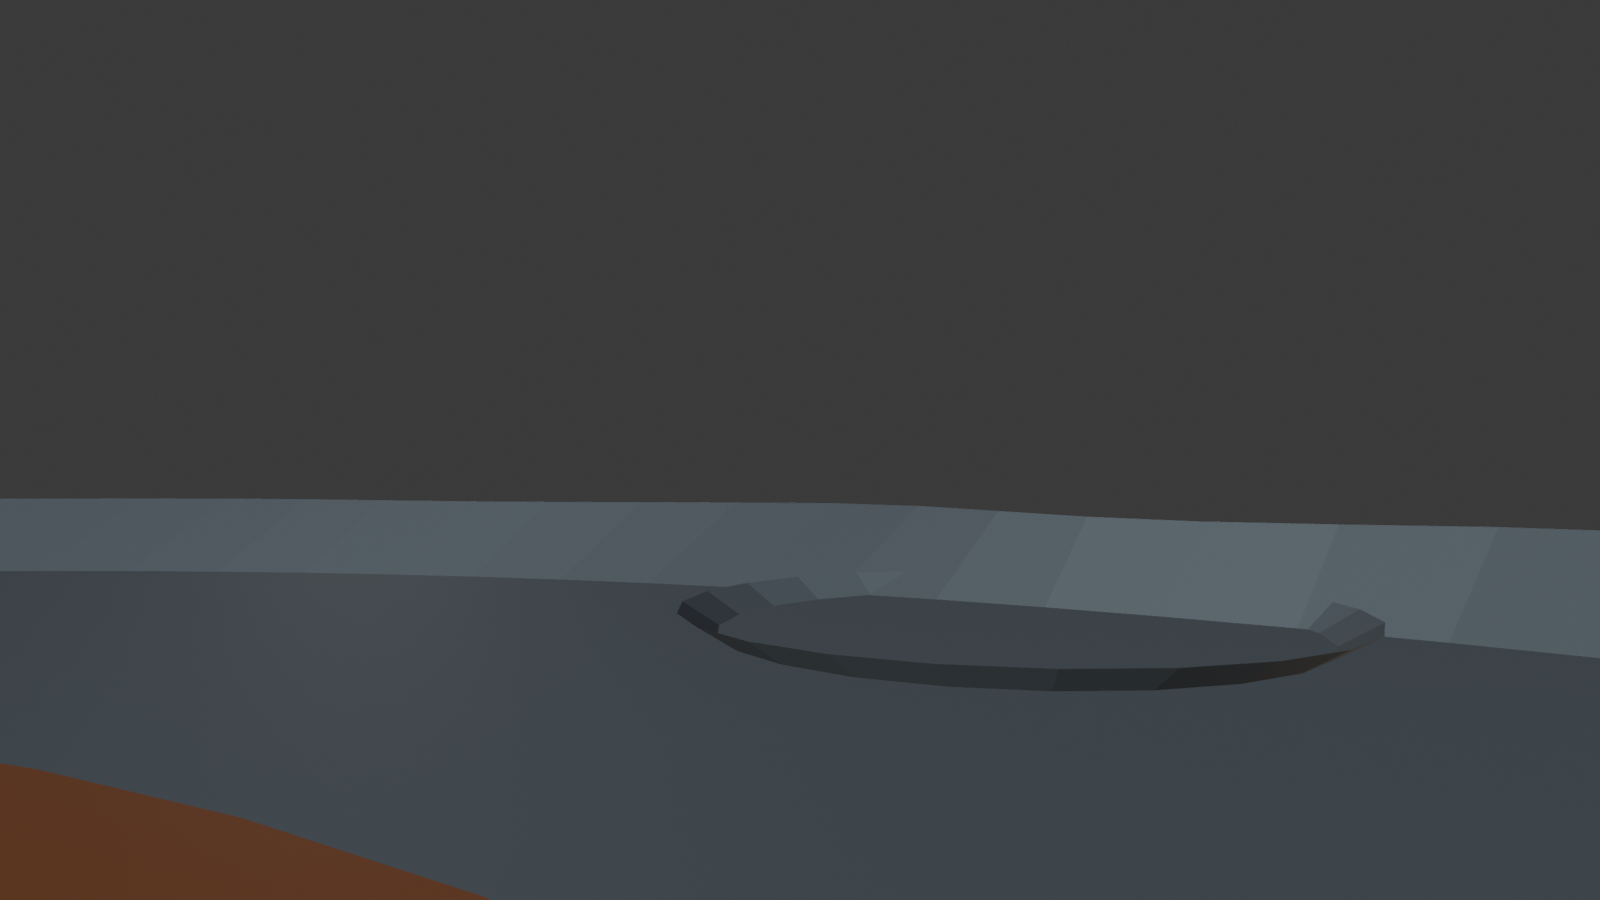
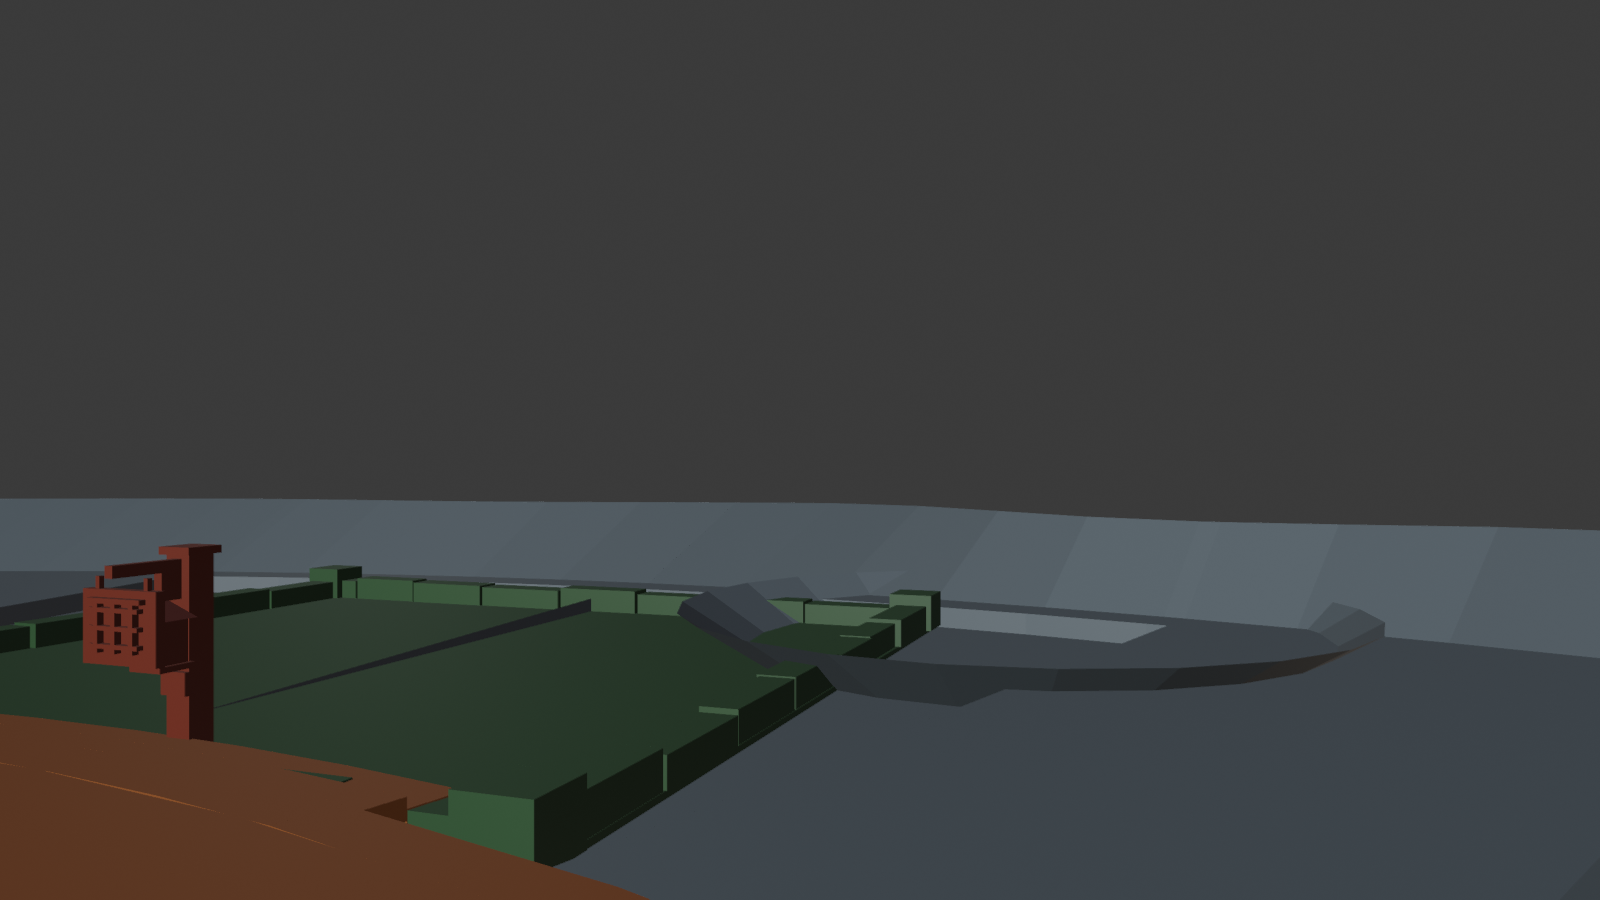
Expose the plot pads: recessed plot terraces, and move the market cross off plot 4
Phase 5 surfaced two defects inherited from earlier phases, both invisible
until the plots had real geometry standing on them.

The pads were buried. Phase 2's terrain was solid at GROUND_Z from the centre
out to MID_RADIUS, so the plot ring at r=135..208 sat entirely underneath it:
a downward ray at any plot centre hit terrain at Z=0, not the pad at -1.5, and
only ~0.5 studs of Phase 5's 2-stud kerb cleared the ground. terrain_quadrant
is now a polar grid over an explicit angle-sample list rather than a segment
count, which lets each plot's pocket boundary land on an exact grid line and
keeps the recesses quad-only and manifold. Seven pockets, r 138..210 and
+/-15.5 deg, sized to contain the whole 70x70 pad; floor 0.4 below PLOT_Z so
the pad reads as a raised slab instead of z-fighting a coplanar floor. Three
pockets straddle a quadrant boundary and are passed to both quadrants clipped,
deliberately wall-less at the seam so the terrace reads as one recess.

The end walls are built as one boundary loop following the actual top profile
and then triangulated. Emitting a quad per radial cell instead left 6
non-manifold edges per seam-cut pocket, because the un-recessed cell's
full-height vertical edge overlapped the recessed cell's floor-height one.

The market cross stood in plot 4. Phase 4 placed it at r=145 on the 180 axis
as "just outside the plaza ring", but PLAZA_OUTER_R is by construction the
plot ring's near pad edge, so the plinth landed on the pad and across the
[…]

Changed region(s): [[0.0, 0.5911, 0.7188, 1.0]]

diff --git a/src/lib/mesh.py b/src/lib/mesh.py
@@ -142,52 +142,128 @@ def wedge_solid(name, radius, angle_start_deg, angle_end_deg, thickness, segment
     return bm_to_object(name, bm, collection=collection)
 
 
-def terrain_quadrant(name, angle_start_deg, angle_end_deg, segments, mid_radius, outer_radius_fn, outer_z_fn, thickness, base_z=0.0, collection=None):
-    """One quadrant of undulating terrain: a flat disc from the centre out
-    to `mid_radius`, then a variable-radius / variable-height band from
-    `mid_radius` out to `outer_radius_fn(angle)` at height `base_z +
-    outer_z_fn(angle)`. Fully solid/watertight (top, bottom, rim wall, two
-    radial end walls), built directly with bmesh -- this is how the island's
-    coastline gets per-angle noise/terracing without a boolean.
+def terrain_quadrant(name, angle_samples_deg, ring_radii, outer_radius_fn, outer_z_fn, thickness, pockets=(), base_z=0.0, collection=None):
+    """One quadrant of island terrain as a single watertight solid: a polar
+    grid over `angle_samples_deg` x `ring_radii` at `base_z`, then a final
+    variable band from ring_radii[-1] out to `outer_radius_fn(angle)` at
+    height `base_z + outer_z_fn(angle)`. Built directly with bmesh -- this
+    is how the coastline gets per-angle noise/terracing, and the plot ring
+    its recessed terraces, without a boolean.
 
+    `angle_samples_deg` is an explicit ascending list rather than a segment
+    count so that pocket boundaries can be placed on exact grid lines --
+    that is what keeps the recesses quad-only and manifold.
+    `ring_radii` is ascending and must start at 0 (the centre fan).
     `outer_radius_fn`/`outer_z_fn` take an angle in degrees and must return
-    the exact same value for a shared boundary angle between two adjacent
-    quadrant calls, or the quadrants won't line up seamlessly.
+    the same value for a boundary angle shared by two adjacent quadrant
+    calls, or the quadrants won't line up seamlessly.
+
+    `pockets` are recessed plot terraces, each `(a_min, a_max, r_min, r_max,
+    floor_z)` in degrees/studs. Bounds MUST fall exactly on angle samples and
+    ring radii; a pocket straddling a quadrant boundary is passed to both
+    quadrants clipped to each one's angular range, and deliberately gets no
+    wall at that seam (the quadrant's own end wall closes it there, so the
+    recess reads as continuous across the two meshes instead of being
+    bisected by a visible interior wall).
     """
+    eps = 1e-6
     bm = bmesh.new()
-    mid_top, mid_bot, outer_top, outer_bot = [], [], [], []
-    for i in range(segments + 1):
-        t_deg = angle_start_deg + (angle_end_deg - angle_start_deg) * i / segments
+    bottom_z = base_z - thickness
+    n_a, n_r = len(angle_samples_deg), len(ring_radii)
+
+    def polar(r, t_deg, z):
         t = math.radians(t_deg)
-        cos_t, sin_t = math.cos(t), math.sin(t)
+        return (r * math.cos(t), r * math.sin(t), z)
 
-        mx, my = mid_radius * cos_t, mid_radius * sin_t
-        mid_top.append(bm.verts.new((mx, my, base_z)))
-        mid_bot.append(bm.verts.new((mx, my, base_z - thickness)))
+    def cell_floor_z(j, k):
+        """Floor Z if grid cell (angles j..j+1, rings k..k+1) is inside a
+        pocket, else None."""
+        a0, a1 = angle_samples_deg[j], angle_samples_deg[j + 1]
+        r0, r1 = ring_radii[k], ring_radii[k + 1]
+        for pa0, pa1, pr0, pr1, floor_z in pockets:
+            if a0 >= pa0 - eps and a1 <= pa1 + eps and r0 >= pr0 - eps and r1 <= pr1 + eps:
+                return floor_z
+        return None
 
+    centre_top = bm.verts.new((0.0, 0.0, base_z))
+    centre_bot = bm.verts.new((0.0, 0.0, bottom_z))
+    top = [[None] * n_r for _ in range(n_a)]
+    bot = [[None] * n_r for _ in range(n_a)]
+    outer_top, outer_bot = [], []
+    for j, t_deg in enumerate(angle_samples_deg):
+        for k in range(1, n_r):
+            top[j][k] = bm.verts.new(polar(ring_radii[k], t_deg, base_z))
+            bot[j][k] = bm.verts.new(polar(ring_radii[k], t_deg, bottom_z))
         r_out = outer_radius_fn(t_deg)
-        z_out = base_z + outer_z_fn(t_deg)
-        ox, oy = r_out * cos_t, r_out * sin_t
-        outer_top.append(bm.verts.new((ox, oy, z_out)))
-        outer_bot.append(bm.verts.new((ox, oy, base_z - thickness)))
+        outer_top.append(bm.verts.new(polar(r_out, t_deg, base_z + outer_z_fn(t_deg))))
+        outer_bot.append(bm.verts.new(polar(r_out, t_deg, bottom_z)))
 
-    center_top = bm.verts.new((0.0, 0.0, base_z))
-    center_bot = bm.verts.new((0.0, 0.0, base_z - thickness))
+    pocket_cells = {}
+    for j in range(n_a - 1):
+        for k in range(1, n_r - 1):
+            floor_z = cell_floor_z(j, k)
+            if floor_z is not None:
+                pocket_cells[(j, k)] = floor_z
+    floor_v = {}
+    for (j, k), floor_z in pocket_cells.items():
+        for jj in (j, j + 1):
+            for kk in (k, k + 1):
+                if (jj, kk) not in floor_v:
+                    floor_v[(jj, kk)] = bm.verts.new(polar(ring_radii[kk], angle_samples_deg[jj], floor_z))
     bm.verts.ensure_lookup_table()
 
-    for i in range(segments):
-        bm.faces.new((center_top, mid_top[i], mid_top[i + 1]))
-        bm.faces.new((center_bot, mid_bot[i + 1], mid_bot[i]))
-        bm.faces.new((mid_top[i], mid_top[i + 1], outer_top[i + 1], outer_top[i]))
-        bm.faces.new((mid_bot[i], outer_bot[i], outer_bot[i + 1], mid_bot[i + 1]))
-        bm.faces.new((outer_top[i], outer_top[i + 1], outer_bot[i + 1], outer_bot[i]))
+    for j in range(n_a - 1):
+        bm.faces.new((centre_top, top[j][1], top[j + 1][1]))
+        bm.faces.new((centre_bot, bot[j + 1][1], bot[j][1]))
+        for k in range(1, n_r - 1):
+            if (j, k) in pocket_cells:
+                bm.faces.new((floor_v[(j, k)], floor_v[(j + 1, k)], floor_v[(j + 1, k + 1)], floor_v[(j, k + 1)]))
+            else:
+                bm.faces.new((top[j][k], top[j + 1][k], top[j + 1][k + 1], top[j][k + 1]))
+            bm.faces.new((bot[j][k], bot[j][k + 1], bot[j + 1][k + 1], bot[j + 1][k]))
+        last = n_r - 1
+        bm.faces.new((top[j][last], top[j + 1][last], outer_top[j + 1], outer_top[j]))
+        bm.faces.new((bot[j][last], outer_bot[j], outer_bot[j + 1], bot[j + 1][last]))
+        bm.faces.new((outer_top[j], outer_top[j + 1], outer_bot[j + 1], outer_bot[j]))
 
-    # two radial end walls (quadrant boundary edges)
-    for idx in (0, segments):
-        bm.faces.new((center_top, mid_top[idx], mid_bot[idx], center_bot) if idx == 0
-                      else (center_top, center_bot, mid_bot[idx], mid_top[idx]))
-        bm.faces.new((mid_top[idx], outer_top[idx], outer_bot[idx], mid_bot[idx]) if idx == 0
-                      else (mid_top[idx], mid_bot[idx], outer_bot[idx], outer_top[idx]))
+    # pocket walls: only where a recessed cell meets un-recessed ground
+    # inside this quadrant. The angular checks are deliberately bounded by
+    # the quadrant's own cell range so a pocket split across two quadrants
+    # gets no wall at the seam.
+    for (j, k) in pocket_cells:
+        if (j, k - 1) not in pocket_cells:
+            bm.faces.new((top[j][k], top[j + 1][k], floor_v[(j + 1, k)], floor_v[(j, k)]))
+        if (j, k + 1) not in pocket_cells:
+            bm.faces.new((top[j][k + 1], floor_v[(j, k + 1)], floor_v[(j + 1, k + 1)], top[j + 1][k + 1]))
+        if j - 1 >= 0 and (j - 1, k) not in pocket_cells:
+            bm.faces.new((top[j][k], floor_v[(j, k)], floor_v[(j, k + 1)], top[j][k + 1]))
+        if j + 1 <= n_a - 2 and (j + 1, k) not in pocket_cells:
+            bm.faces.new((top[j + 1][k], top[j + 1][k + 1], floor_v[(j + 1, k + 1)], floor_v[(j + 1, k)]))
+
+    # Two radial end walls, each built as one boundary loop and then
+    # triangulated. Emitting a quad per radial cell instead would double-cover
+    # the vertical edge at a pocket rim (a full-height 0..-6 edge from the
+    # un-recessed cell overlapping the floor-height edge from the recessed
+    # one) and leave the quadrant non-manifold; walking the actual top
+    # profile puts the step on the loop, where it is shared with the pocket's
+    # own rim wall.
+    end_walls = []
+    for j_node, j_cell in ((0, 0), (n_a - 1, n_a - 2)):
+        outline = [centre_top, top[j_node][1]]
+        for k in range(1, n_r - 1):
+            recessed = (j_cell, k) in pocket_cells
+            edge_in = floor_v[(j_node, k)] if recessed else top[j_node][k]
+            edge_out = floor_v[(j_node, k + 1)] if recessed else top[j_node][k + 1]
+            if outline[-1] is not edge_in:
+                outline.append(edge_in)
+            outline.append(edge_out)
+        outline.append(outer_top[j_node])
+        outline.append(outer_bot[j_node])
+        for k in range(n_r - 1, 0, -1):
+            outline.append(bot[j_node][k])
+        outline.append(centre_bot)
+        end_walls.append(bm.faces.new(outline))
+    bmesh.ops.triangulate(bm, faces=end_walls, quad_method="BEAUTY", ngon_method="BEAUTY")
 
     bmesh.ops.recalc_face_normals(bm, faces=bm.faces)
     bm.normal_update()

diff --git a/src/p2_terrain.py b/src/p2_terrain.py
@@ -12,11 +12,22 @@ Design notes / scope calls (flagged, not silently assumed):
     boundary angles (+/-GATE_HALF_ANGLE) so the coastline still meets
     Phase 1's beach ramp corners exactly -- no seam, no rebuild of Phase 1.
   - The flat-to-terraced transition happens between MID_RADIUS (215, just
-    outside the plot ring's outer reach) and the coastline. Plots and plaza
-    (r<=205ish) stay on the flat Z=0 base Phase 1 already built on;
-    "recessed pad in a raised hillside" is read as intentional terracing,
-    not a defect. Full plaza-side stair integration is explicitly Phase 4
-    scope ("west terrace lift and steps"), not this one.
+    outside the plot ring's outer reach) and the coastline.
+  - PLOT POCKETS (added after Phase 5): the plot ring carries seven recessed
+    terraces. Without them the pads at PLOT_Z=-1.5 were entirely buried --
+    this terrain was solid at GROUND_Z from the centre out to MID_RADIUS, so
+    the walkable surface inside every plot was terrain, not pad, and only
+    ~0.5 studs of Phase 5's 2-stud kerb cleared the ground. Each pocket is
+    an annular sector sized to contain the whole 70x70 pad (its near corners
+    reach r=139.5 at +/-14.5 deg, its far corners r=208 at +/-9.7 deg), so
+    POCKET_HALF_ANGLE=15.5 and r 138..210 enclose it with margin, and the
+    5.3 deg left between neighbouring pockets stays as a solid verge.
+    POCKET_INNER_R is 138 and not the pad's own near edge at 135 on purpose:
+    135..138 is Phase 4's plaza step ring, and starting the recess any
+    further in would undercut it. The floor sits 0.4 below PLOT_Z so the pad
+    reads as a raised paving slab inside the terrace rather than z-fighting
+    a coplanar floor, and the sector-minus-square remainder becomes real
+    ground for Phase 7's "plot_surround" scatter zone to sit on.
   - Tide pool rim Z is set to a modest local value (2.0), not the full
     WEST_TERRACE_LIFT -- keeps it visually coherent with the flat terrain
     immediately around it in this pass; later phases can grade the ground
@@ -75,6 +86,12 @@ NOTCH_HALF_WIDTH = 10.0
 
 TIDEPOOL_RIM_Z = 2.0
 
+# recessed plot terraces -- see the pocket note in the module docstring
+POCKET_INNER_R     = 138.0   # outer edge of Phase 4's plaza step ring
+POCKET_OUTER_R     = 210.0   # clears the pad's far corners at r=208
+POCKET_HALF_ANGLE  = 15.5    # clears the pad's near corners at +/-14.5 deg
+POCKET_FLOOR_Z     = config.PLOT_Z - 0.4
+
 noise.seed_set(config.SCATTER_SEED)
 
 
@@ -132,9 +149,33 @@ def purge():
         dd_scene.purge_by_prefix(prefix)
 
 
+def plot_pockets():
+    """One recessed terrace per plot, as (a_min, a_max, r_min, r_max, floor_z)."""
+    return [
+        (a - POCKET_HALF_ANGLE, a + POCKET_HALF_ANGLE,
+         POCKET_INNER_R, POCKET_OUTER_R, POCKET_FLOOR_Z)
+        for a in config.PLOT_ANGLES_DEG
+    ]
+
+
+def _angle_samples(a0, a1, per_degree, boundaries):
+    """Uniform coastline sampling with every pocket edge forced onto an exact
+    grid line -- a uniform sample within 0.05 deg of a pocket edge is dropped
+    in favour of the edge, never the other way round, since the pocket bounds
+    are what has to land exactly."""
+    n = max(4, round((a1 - a0) * per_degree))
+    uniform = [a0 + (a1 - a0) * i / n for i in range(n + 1)]
+    inside = [b for b in boundaries if a0 + 0.05 < b < a1 - 0.05]
+    kept = [u for u in uniform if all(abs(u - b) > 0.05 for b in inside)]
+    return sorted(kept + inside)
+
+
 def build_quadrants():
     arc = 360.0 - 2.0 * config.GATE_HALF_ANGLE
     per_degree = config.COAST_SEGMENTS / arc
+    ring_radii = [0.0, POCKET_INNER_R, POCKET_OUTER_R, MID_RADIUS]
+    pockets = plot_pockets()
+    boundaries = [edge for p in pockets for edge in (p[0], p[1])]
     quadrants = [
         ("NE", config.GATE_HALF_ANGLE, 90.0),
         ("NW", 90.0, 180.0),
@@ -143,16 +184,23 @@ def build_quadrants():
     ]
     objs = []
     for suffix, a0, a1 in quadrants:
-        segments = max(4, round((a1 - a0) * per_degree))
+        # three of the seven pockets straddle a quadrant boundary (at 90, 180
+        # and 270); each half is passed to its own quadrant clipped to that
+        # quadrant's arc, and terrain_quadrant leaves the seam wall-less so
+        # the recess reads as one terrace across the two meshes.
+        clipped = [
+            (max(pa0, a0), min(pa1, a1), pr0, pr1, floor_z)
+            for pa0, pa1, pr0, pr1, floor_z in pockets
+            if min(pa1, a1) - max(pa0, a0) > 0.05
+        ]
         obj = dd_mesh.terrain_quadrant(
             f"DD_Terrain_Island_{suffix}",
-            angle_start_deg=a0,
-            angle_end_deg=a1,
-            segments=segments,
-            mid_radius=MID_RADIUS,
+            angle_samples_deg=_angle_samples(a0, a1, per_degree, boundaries),
+            ring_radii=ring_radii,
             outer_radius_fn=coast_radius,
             outer_z_fn=terrace_z,
             thickness=ISLAND_THICKNESS,
+            pockets=clipped,
             base_z=config.GROUND_Z,
         )
         dd_mesh.shade_flat(obj)
@@ -249,6 +297,17 @@ def capture_renders():
         fov_deg=70.0,
     )
     dd_scene.render_to_file(eye_cam, os.path.join(renders_dir, "p2_spawn_eye.png"), xray=False)
+
+    # plot pocket check: oblique from over the plaza rim down into plot 4's
+    # recessed terrace, the one view that shows whether the pad is actually
+    # exposed and how the plaza edge, entrance stair and pocket wall meet.
+    pocket_cam = dd_scene.setup_look_at_camera(
+        "RenderCam_PlotPocket",
+        location=(-96.0, 26.0, 42.0),
+        target=(config.plot_xy(3)[0], config.plot_xy(3)[1], config.PLOT_Z),
+        fov_deg=55.0,
+    )
+    dd_scene.render_to_file(pocket_cam, os.path.join(renders_dir, "p2_plot_pocket.png"), xray=False)
 
     # west-terrace / tidepool check angle
     west_cam = dd_scene.setup_eye_camera(

diff --git a/src/p4_plaza.py b/src/p4_plaza.py
@@ -34,10 +34,14 @@ against a concrete object now rather than deferred on the assumption that
 a future phase will happen to clear it. Phase 5 purges and replaces these,
 same pattern as Phase 3 superseding Phase 1's greybox shop.
 
-Market cross placed at r=145, due west (angle 180), just outside the
-plaza ring on the spawn approach -- "the plaza's west opening where spawn
-arrives" is otherwise unconstrained by config.py, so this is a design
-placement, not a pinned number.
+Market cross: "the plaza's west opening where spawn arrives" is not pinned
+by config.py, so its placement is a design call. The original r=145 on the
+180 axis was wrong -- PLAZA_OUTER_R is by construction the plot ring's near
+pad edge, so "just outside the plaza ring" put the plinth on plot 4's pad
+and across the entrance stair Phase 5 later built there. Now r=120,
+angle 192: fully on the plaza deck, clear of Chandler's Cut (which bows
+north through this radius), ~26 studs from spawn so a player arrives
+beside it, and off the spawn->shop sightline axis rather than blocking it.
 
 Idempotent: purges "DD_Struct_PlazaFloor" (Phase 1's placeholder gets
 replaced), "DD_Struct_PlazaStep", "DD_Struct_Path_", "DD_Struct_LaneSign_",
@@ -83,7 +87,18 @@ SIGN_PLAQUE_W = 5.0
 SIGN_PLAQUE_H = 3.0
 SIGN_PLAQUE_D = 0.6
 
-MARKET_CROSS_XY = (-145.0, 0.0)
+# Polar, not a hardcoded pair: r=145 on the 180 axis put the plinth (8-stud
+# radius) on plot 4's pad and across its entrance stair -- PLAZA_OUTER_R *is*
+# the plot ring's near pad edge, so "just outside the plaza ring" and "on a
+# plot" are the same place. Moved inside the deck and off the lane axis:
+# r=120 keeps the whole plinth on the plaza floor (30..135), and the 12 deg
+# southward offset clears Chandler's Cut, which bows north here.
+MARKET_CROSS_R = 120.0
+MARKET_CROSS_ANGLE_DEG = 192.0
+MARKET_CROSS_XY = (
+    MARKET_CROSS_R * math.cos(math.radians(MARKET_CROSS_ANGLE_DEG)),
+    MARKET_CROSS_R * math.sin(math.radians(MARKET_CROSS_ANGLE_DEG)),
+)
 MARKET_CROSS_TIER_H = 1.0
 MARKET_CROSS_TIER_RADII = (8.0, 6.5, 5.0)
 MARKET_CROSS_COLUMN_R = 1.0
@@ -244,7 +259,7 @@ def build_lane_signs():
 def build_market_cross():
     objs = []
     x, y = MARKET_CROSS_XY
-    z = 0.0
+    z = config.PLAZA_LIFT  # stands on the plaza deck now, not on ground
     for i, r in enumerate(MARKET_CROSS_TIER_RADII):
         tier = dd_mesh.cylinder(f"DD_Struct_MarketCross_Tier{i}", r, MARKET_CROSS_TIER_H, base_z=0.0, segments=8)
         tier.location = (x, y, z)
